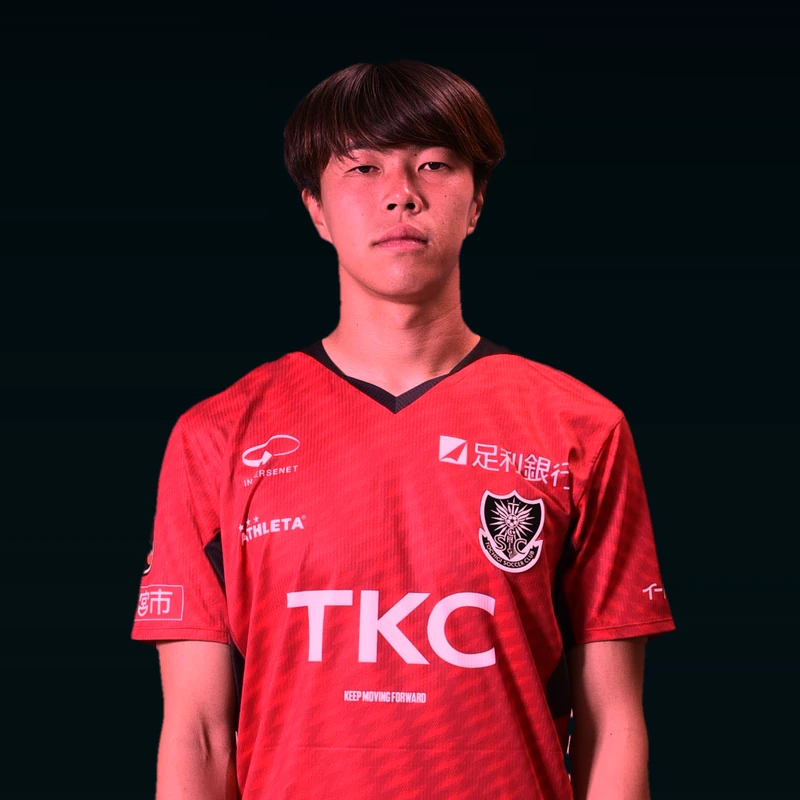
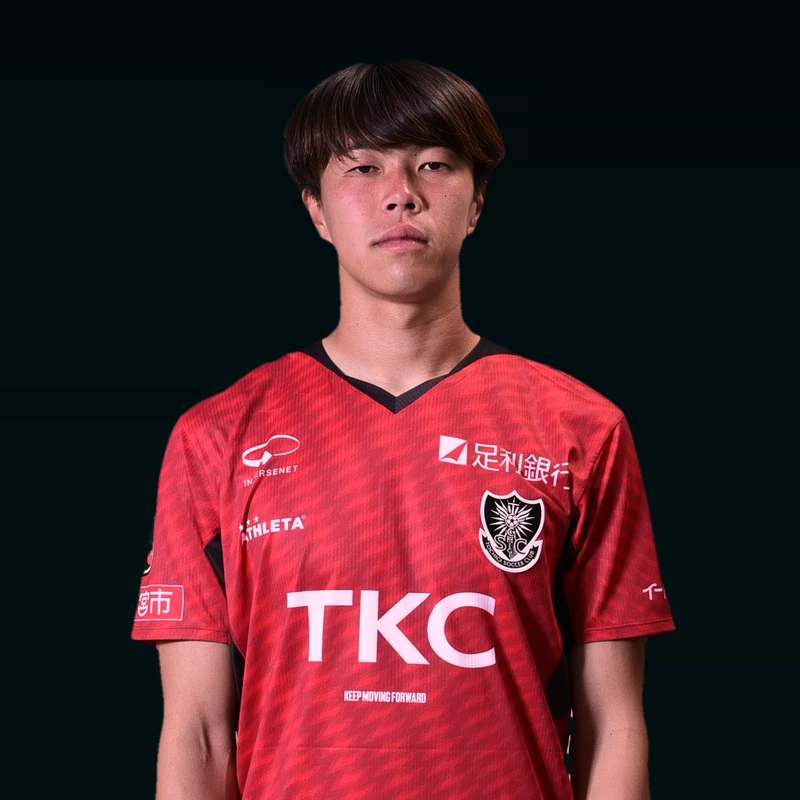
濱崎ヘッドコーチの英字表記を修正、笹崎選手の色味を調整
濱崎さんの英字表記を HAMASAKI Yoshiki → Yoshimi に修正。
ふりがなは元から「はまさき よしみ」で正しく、英字だけが誤っていた。
スタッフのローマ字はこれまで生成元HTMLに直書きで直しにくかったため、
マスターの『スタッフ』シートに「ローマ字」列を作って移した。
(#18 松下選手の Yoshiki は正しいので変更なし)

笹崎選手の写真が赤く見えた件。ユニフォームの赤だけを基準に色を
合わせていたため緑が17%落ち、肌まで赤黒くなっていた。補正を
3.5割だけ当てる形に変更し、肌の色を自然に戻した。
一覧カード・個人ページの両方に適用。

Changed region(s): [[0.1562, 0.1875, 0.8438, 1.0]]

diff --git a/index.html b/index.html
@@ -364,7 +364,7 @@ const DATA = {
     {num:33, ja:"笹崎 翔矢", en:"SASAZAKI Shoya", pos:"GK", dob:"2004年8月2日", hw:"188cm / 80kg", from:"千葉県", career:"", img:"players/33_sasazaki-shoya.webp"}
   ],
   STAFF: [
-    {num:null, ja:"濱崎 芳己", en:"HAMASAKI Yoshiki", dob:"1974年5月16日", hw:"", from:"静岡県", img:"staff/staff_02_face.webp", role:"ヘッドコーチ"},
+    {num:null, ja:"濱崎 芳己", en:"HAMASAKI Yoshimi", dob:"1974年5月16日", hw:"", from:"静岡県", img:"staff/staff_02_face.webp", role:"ヘッドコーチ"},
     {num:null, ja:"小幡 直嗣", en:"OBATA Naotsugu", dob:"1987年5月26日", hw:"", from:"東京都", img:"staff/staff_03_face.webp", role:"コーチ"},
     {num:null, ja:"安井 聡志", en:"YASUI Satoshi", dob:"1994年12月31日", hw:"", from:"愛知県", img:"staff/staff_04_face.webp", role:"コーチ"},
     {num:null, ja:"中村 元", en:"NAKAMURA Gen", dob:"1981年1月14日", hw:"", from:"大阪府", img:"staff/staff_05_face.webp", role:"コーチ"},
